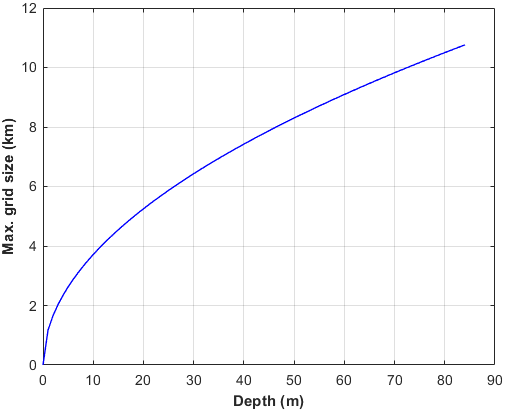
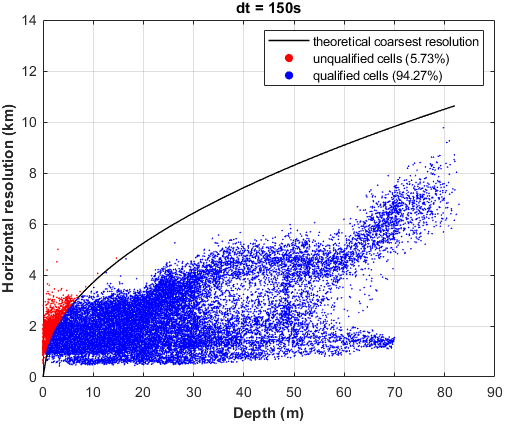
minor updates

diff --git a/README.html b/README.html
@@ -1321,7 +1321,7 @@ hold on
 <pre><code class="fenced-code-block language-matlab"><span class="token comment">% check the invese CFL constraints</span>
 <span class="token function">check_schism_metrics</span><span class="token punctuation">(</span>Mobj<span class="token punctuation">)</span><span class="token punctuation">;</span>
 
-<span class="token comment">% display the Max. acceptable resolutions as a function of water depth </span>
+<span class="token comment">% display the theoretical coarsest resolutions as a function of water depth </span>
 <span class="token function">calc_schism_CFL</span><span class="token punctuation">(</span>Mobj<span class="token punctuation">)</span>
 
 <span class="token comment">% check the hydrostatic assumption</span>
@@ -1339,7 +1339,7 @@ hold on
   <img width="400" alt="image" src="imags/fig_4.2.png">
 </div>
 
-<p align="center"><strong>Figure 3</strong>. The Max. acceptable resolutions as a function of water depth .</p>
+<p align="center"><strong>Figure 3</strong>. The theoretical coarsest resolutions as a function of water depth .</p>
 
 <div align="center">
   <img width="400" alt="image" src="imags/fig_4.3.png">

diff --git a/utilities/calculate/calc_schism_CFL.m b/utilities/calculate/calc_schism_CFL.m
@@ -1,53 +1,72 @@
 function calc_schism_CFL(Mobj, CFL_limit)
-% Estimate the inversed CFL constraints
+% Check the inverse CFL constraints.
 %
 %% Syntax
-% calc_schism_CFL(Mobj, CFL_val)
+% calc_schism_CFL(Mobj, CFL_limit)
 % 
 %% Description 
-% calc_schism_CFL(Mobj, CFL_val) returns a graph showing the relationship
-% between horizontal resolution and water depth.
-% calc_schism_CFL(Mobj, CFL_val) sets the critical CFL number
+% calc_schism_CFL(Mobj, CFL_limit) returns a graph showing the relationship
+%       between horizontal resolution and water depth.
+% calc_schism_CFL(Mobj, CFL_limit) sets the critical CFL number
 % 
 %% Input Arguments
-% Mobj --- mesh object
-% CFL_val --- critical CFL number
-%
-%% Output Arguments
-% None
+% Mobj - mesh object; datastruct
+%       the datastruct containing mesh info.
+% CFL_limit - CFL limit; double
+%       the critical CFL number. by default: CFL_limit = 0.4;
 % 
 %% Notes
-% this function needs improvements since it is time-consuming!
-% 
+% the returned diagram is just a reference for the grid quality.
+%
 %% Author Info
-% Created by Wenfan Wu, Ocean Univ. of China in 2021. 
-% Last Updated on 9 Nov. 2021. 
-% Email: wenfanwu@stu.ouc.edu.cn
+% Created by Wenfan Wu, Virginia Institute of Marine Science in 2022.
+% Last Updated on 11 Nov 2024.
+% Email: wwu@vims.edu
 % 
 % See also: check_schism_metrics
-%
+
 %% Parse inputs
 if nargin==1
     CFL_limit = 0.4;
 end
 
 uflow = 0;
-g = 9.8;
+g = 9.80665;
 dt = Mobj.dt;
+depthc = max(Mobj.depthc,0);  % avoid negative depth (e.g., hills).
 
-fcn = @(h,dt) sqrt(uflow+g*h).*dt./CFL_limit;
+calc_dx = @(h,dt) sqrt(uflow+g*h).*dt./CFL_limit;
 
-h0 = min(Mobj.depth(:)):max(Mobj.depth(:));
-dx0 = fcn(h0, dt);
+h0 = min(depthc(:)):0.25:max(depthc(:));
+dx0 = calc_dx(h0, dt);
 
+R = calc_schism_reso(Mobj);
+Rc = calc_dx(depthc, dt);
 %% Display
 figure('Color', 'w')
-plot(h0, dx0/1000, 'LineWidth', 1, 'Color', 'b')
+plot(h0, dx0/1000, 'LineWidth', 1, 'Color', 'k')
 box on; grid on
 xlabel('Depth (m)', 'FontWeight', 'bold')
-ylabel('Max. grid size (km)', 'FontWeight', 'bold')
+ylabel('Horizontal resolution (km)', 'FontWeight', 'bold')
+hold on
+scatter(depthc(R>Rc), R(R>Rc)/1e3, 2, 'red', 'filled')
+scatter(depthc(R<=Rc), R(R<=Rc)/1e3, 2, 'blue', 'filled')
 
+rb = numel(find(R>Rc))/Mobj.nElems*100;
+rg = numel(find(R<=Rc))/Mobj.nElems*100;
+
+title(['dt = ', num2str(dt, '%02d'), 's'])
+legend({'theoretical coarsest resolution', ['unqualified cells (', num2str(rb,'%.02f'),'%)'],  ['qualified cells (', num2str(rg,'%.02f'),'%)']})
 end
 
-
+% Table 5.1: Coarsest grid resolution at sample depths, assuming a ‘worse
+% case’ scenario of t=100s.
+%   h (m)     xmax (m)
+%   1             790
+%   10           2500
+%   50           5.5e3
+%   100         7.9e3
+%   500         1.7e4
+%   1000        2.5e4
+%   4000        5e4
 

diff --git a/utilities/misc/add_bnd_metrics.m b/utilities/misc/add_bnd_metrics.m
@@ -53,6 +53,7 @@ ind_btm = sub2ind(size(island_nodes), sum(island_nodes~=0, 1), 1:size(island_nod
 if sum(island_nodes(1,:) ~= island_nodes(ind_btm))==0
     disp('removed ending points of islands, since all islands start/end at the same node')
     island_nodes(ind_btm) = 0;
+	island_nodes(end, :) = [];
 end
 
 % make sure each island loop is aligned clockwise
@@ -184,7 +185,7 @@ bnd_nodes = bnd_nodes(1:max_len,:);
 
 bnd_lens = sum(bnd_nodes~=0,1);
 [~, ind_sorted] = sort(bnd_lens, 'descend');
-bnd_nodes = bnd_nodes(:, ind_sorted); % sort by the # of loop lens
+bnd_nodes = double(bnd_nodes(:, ind_sorted)); % sort by the # of loop lens
 
 end
 

diff --git a/preproc/mesh2schism.m b/preproc/mesh2schism.m
@@ -53,6 +53,8 @@ if nargin<2
             sname = 'SMS';
         case '.mat'
             sname = 'OceanMesh2D';
+		otherwise
+            error('unrecognized mesh file!')
     end
 end
 %% Load mesh
@@ -64,8 +66,7 @@ switch lower(sname)
         disp('read mesh info from mat file created by OceanMesh2D')
         Mobj = read_mat_info(mesh_file);
     otherwise
-        warning on
-        warning('unrecognized data type!')
+        error('unrecognized software name!')
 end
 
 end

diff --git a/README.md b/README.md
@@ -100,7 +100,7 @@ This part aims to check the inverse CFL constraints and hydrostatic assumption.
 % check the invese CFL constraints
 check_schism_metrics(Mobj);
 
-% display the Max. acceptable resolutions as a function of water depth 
+% display the theoretical coarsest resolutions as a function of water depth 
 calc_schism_CFL(Mobj)
 
 % check the hydrostatic assumption
@@ -119,7 +119,7 @@ check_schism_hydrostatic(Mobj);
   <img src="imags/fig_4.2.png" alt="image" width="400">
 </div>
 
-<p align="center"><strong>Figure 3</strong>. The Max. acceptable resolutions as a function of water depth .</p>
+<p align="center"><strong>Figure 3</strong>. The theoretical coarsest resolutions as a function of water depth .</p>
 
 <div align="center">
   <img src="imags/fig_4.3.png" alt="image" width="400">
